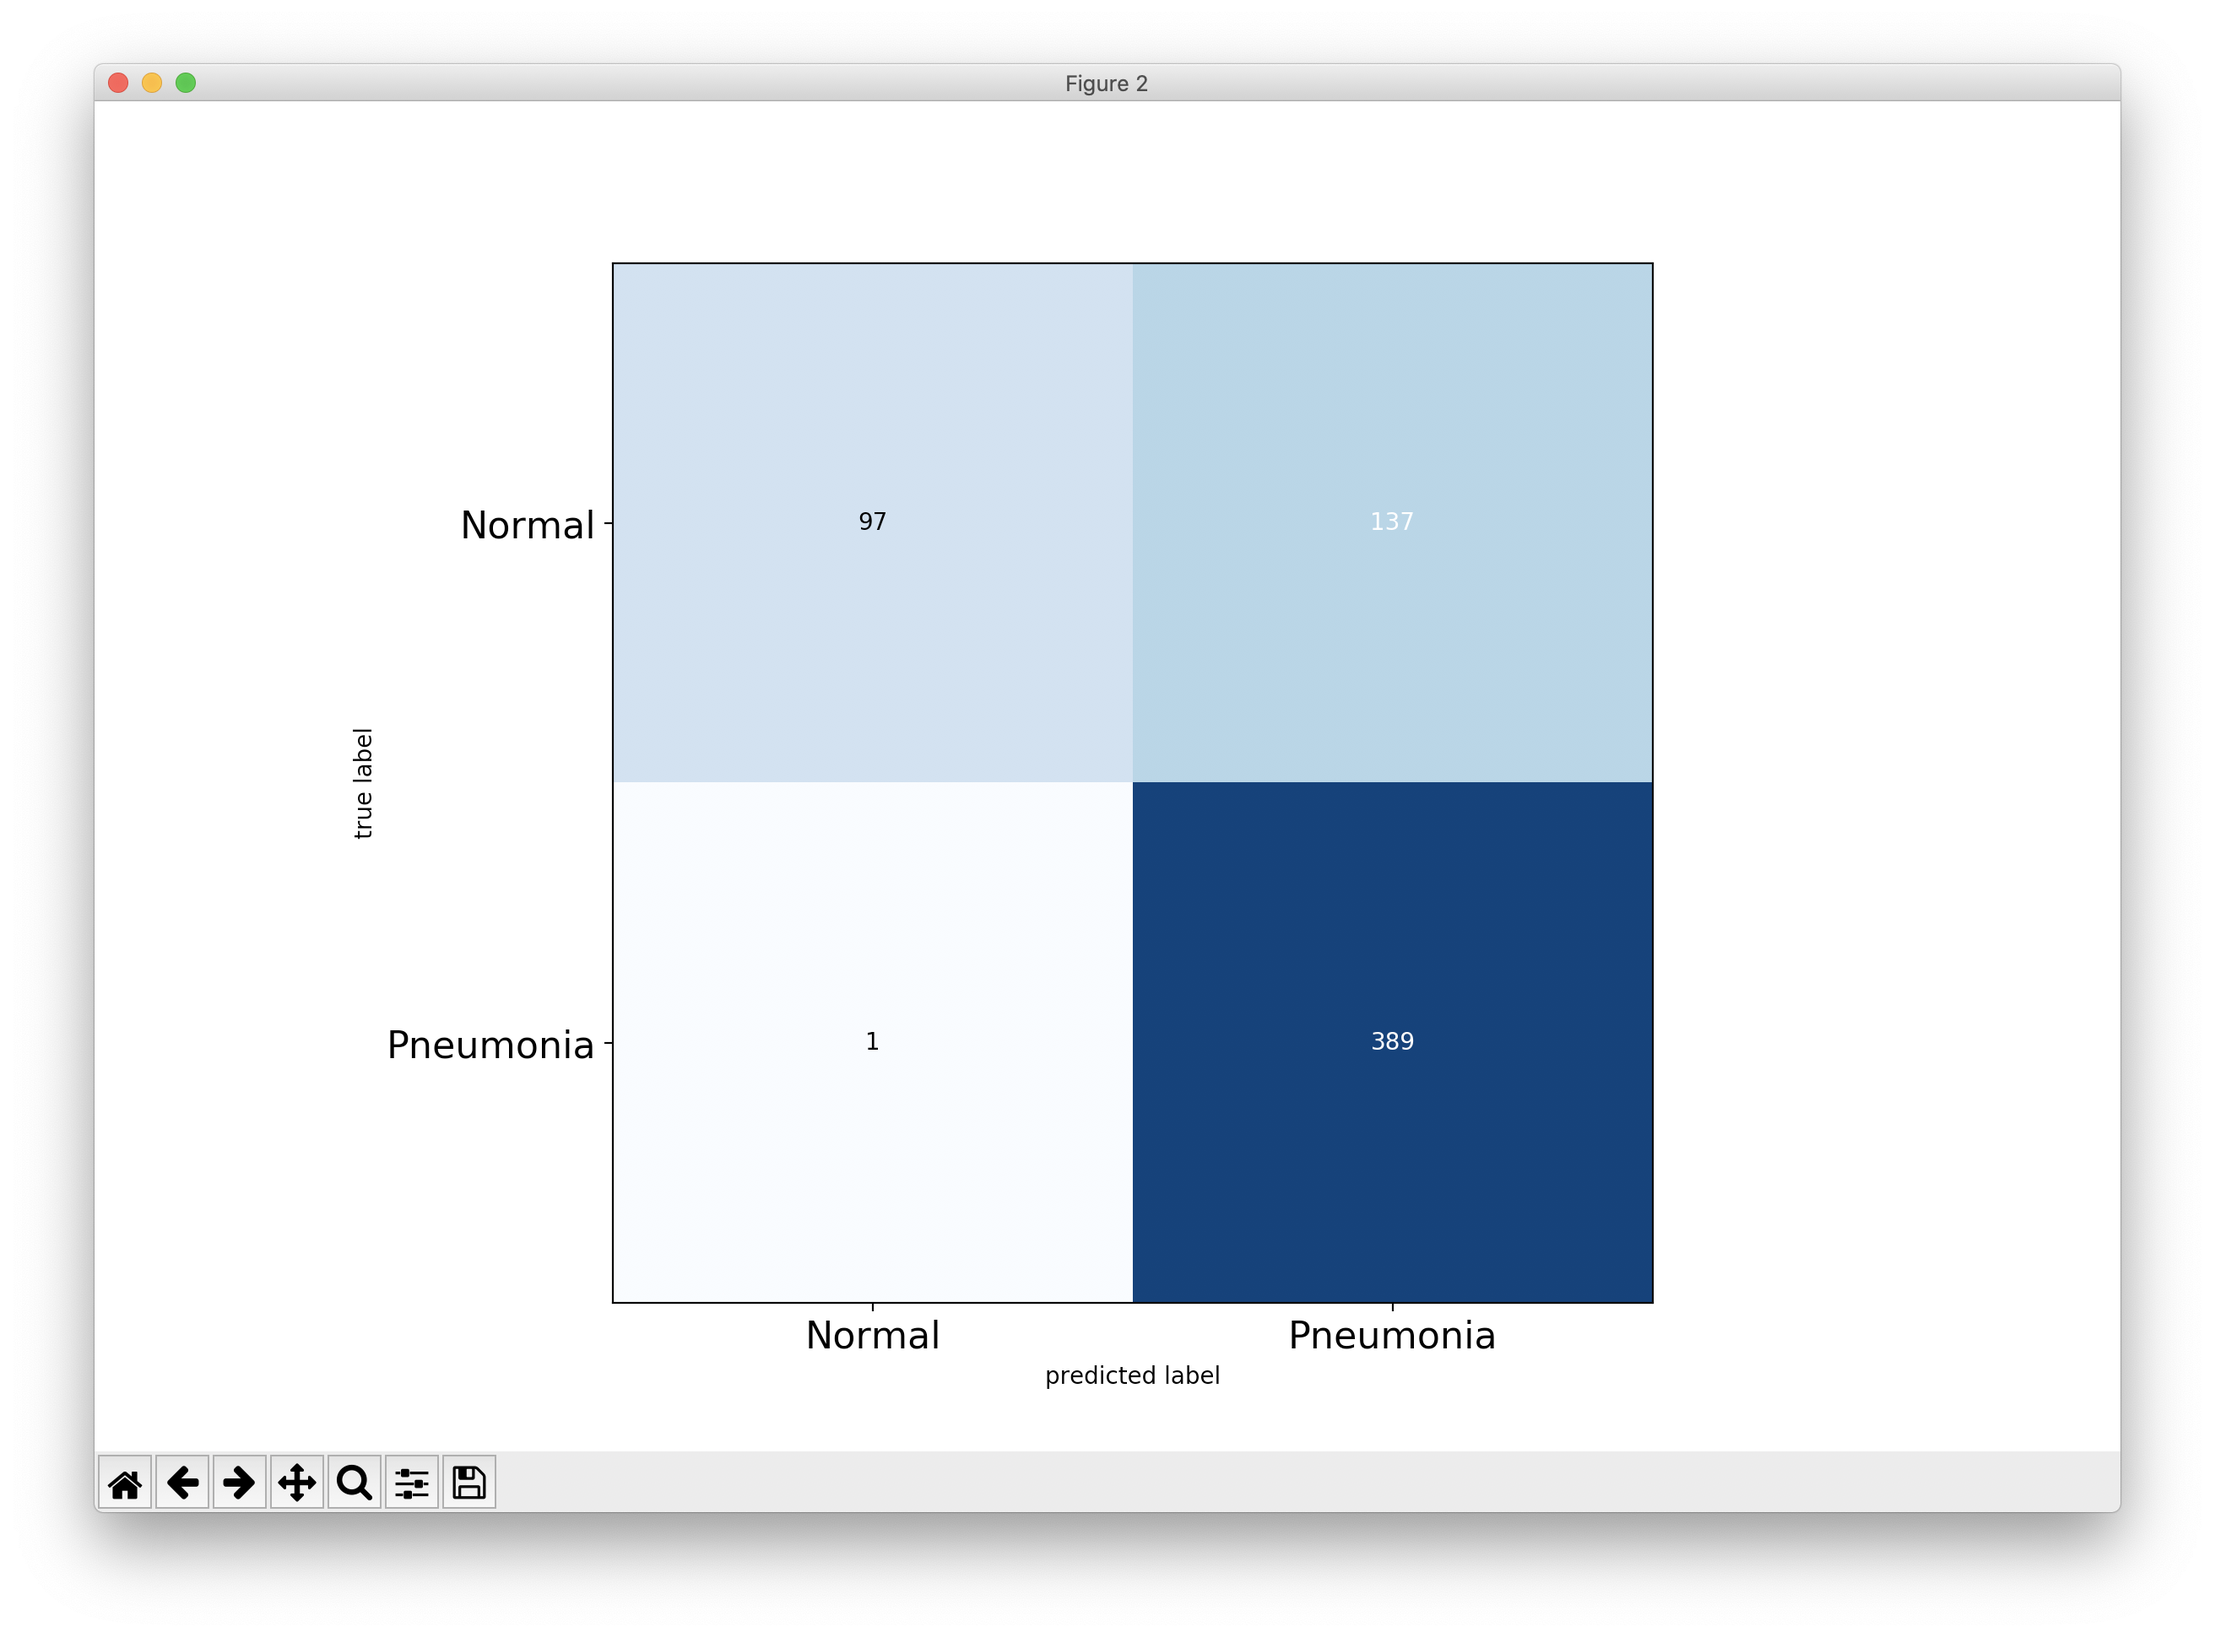
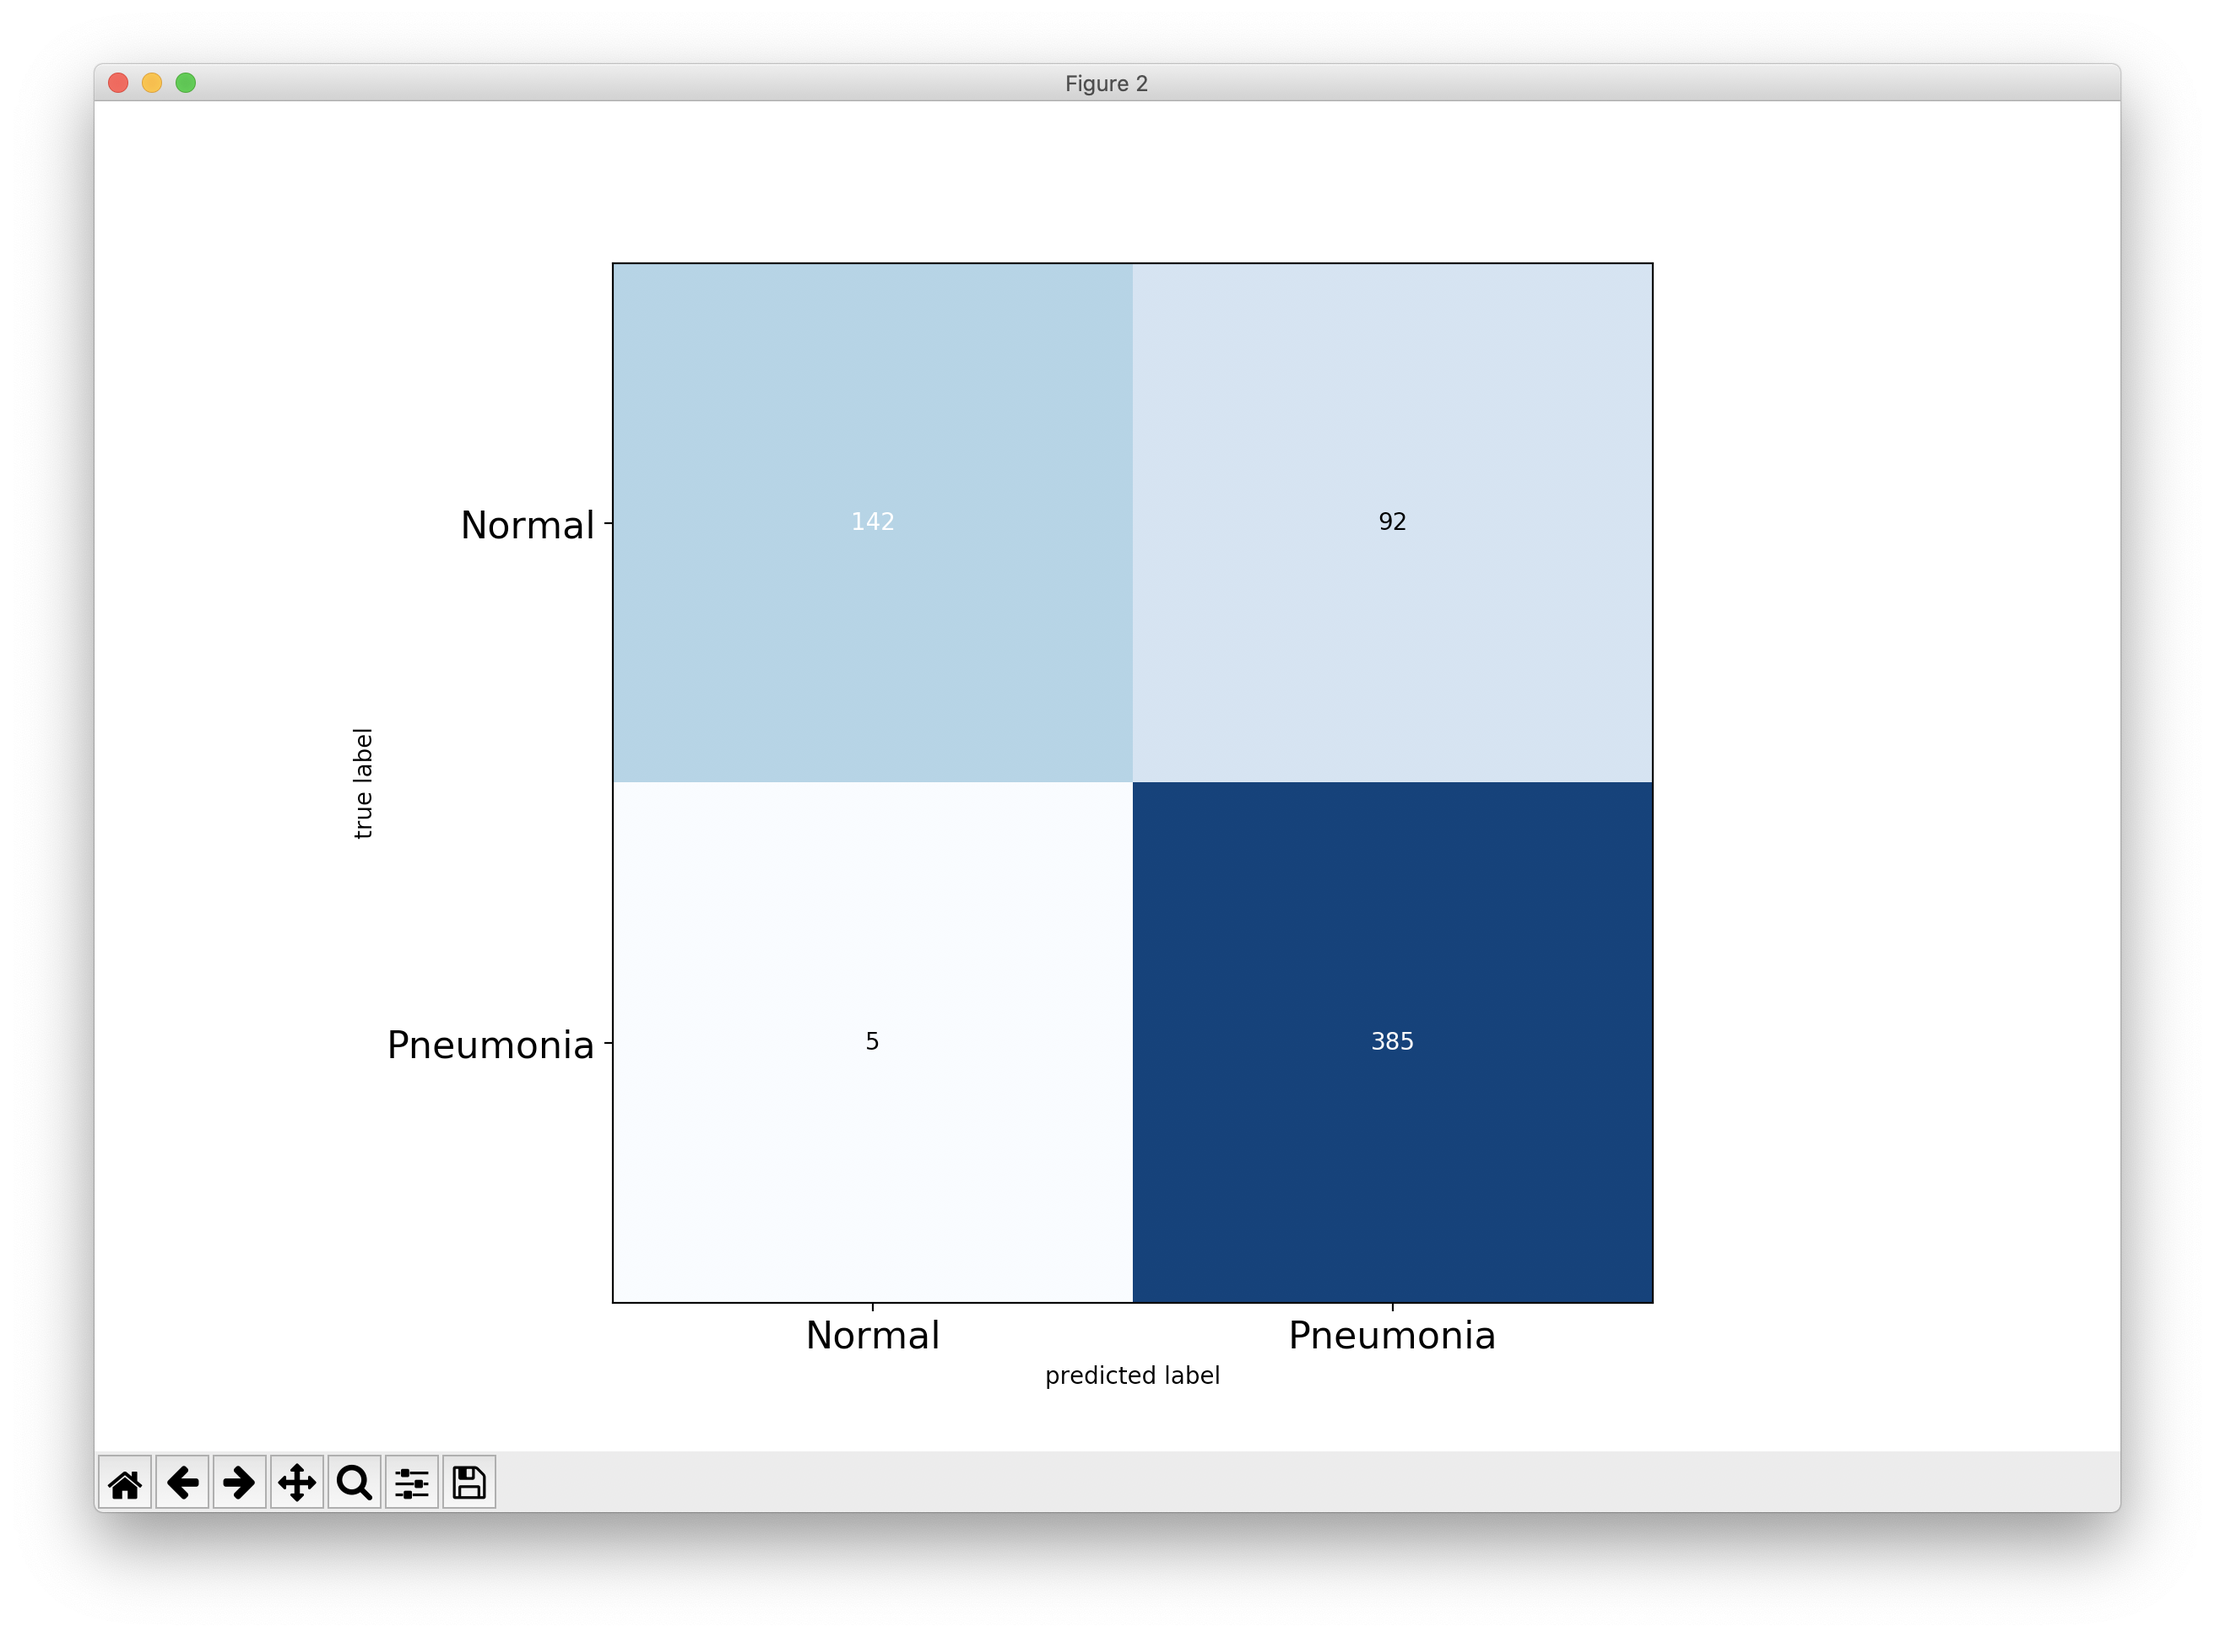
Add files via upload

Changed region(s): [[0.25, 0.1546, 0.75, 0.4948]]

diff --git a/main_cnn_vgg19.py b/main_cnn_vgg19.py
@@ -1,0 +1,160 @@
+# Find this Kaggle kernel at:
+# https://www.kaggle.com/wilsonwong961/cnn-with-vgg19?scriptVersionId=17144986
+
+import numpy as np  # linear algebra
+import pandas as pd  # data processing, CSV file I/O (e.g. pd.read_csv)\
+import os
+import tensorflow as tf
+from tensorflow.keras import layers, models
+import matplotlib.pyplot as plt
+import cv2
+from pathlib import Path
+from sklearn.metrics import confusion_matrix
+from mlxtend.plotting import plot_confusion_matrix
+print(os.listdir("../input/chest_xray/chest_xray"))
+
+# Load and augment training data
+train_datagen = tf.keras.preprocessing.image.ImageDataGenerator(
+    rescale=1/255,
+    rotation_range=20,
+    width_shift_range=0.2,
+    height_shift_range=0.2,
+    horizontal_flip=True
+)
+
+train_generator = train_datagen.flow_from_directory(
+    '../input/chest_xray/chest_xray/train',
+    batch_size=16,
+    target_size=(128, 128),
+    shuffle=True,
+    class_mode='categorical'
+)
+
+# Load validation and test data
+val_datagen = tf.keras.preprocessing.image.ImageDataGenerator(rescale=1/255)
+val_generator = val_datagen.flow_from_directory(
+    '../input/chest_xray/chest_xray/val',
+    batch_size=16,
+    target_size=(128, 128),
+    class_mode='categorical'
+)
+
+test_datagen = tf.keras.preprocessing.image.ImageDataGenerator(rescale=1/255)
+test_generator = test_datagen.flow_from_directory(
+    '../input/chest_xray/chest_xray/test',
+    batch_size=16,
+    target_size=(128, 128),
+    class_mode='categorical'
+)
+
+# Use MobileNetV2 as base model for transfer learning
+base_model = tf.keras.applications.VGG19(
+    weights='imagenet',
+    include_top=False,
+    input_shape=(128, 128, 3)
+)
+base_model.trainable = False
+
+# Define model
+def model():
+    model = base_model.output
+    model = tf.keras.layers.GlobalAveragePooling2D()(model)
+    model = tf.keras.layers.Dense(units=512, activation='relu')(model)
+    model = tf.keras.layers.Dropout(0.7)(model)
+    predictions = tf.keras.layers.Dense(units=2, activation='softmax')(model)
+    model = tf.keras.models.Model(inputs=base_model.input, outputs=predictions)
+    return model
+
+model = model()
+model.compile(optimizer='adam',
+              loss='categorical_crossentropy',
+              metrics=['accuracy'])
+
+model.fit_generator(
+    train_generator,
+    epochs=10,
+    verbose=1,
+    validation_data=val_generator,
+)
+
+loss, test_acc = model.evaluate_generator(
+    test_generator,
+    steps=None,
+    max_queue_size=10,
+    workers=1,
+    use_multiprocessing=True,
+    verbose=1
+)
+
+print(test_acc)
+
+model.save('model.h5')
+
+# Load model for testing
+model = tf.keras.models.load_model('model.h5')
+
+test_dir = Path('../input/chest_xray/chest_xray/test')
+
+normal_cases_dir = test_dir / 'NORMAL'
+pneumonia_cases_dir = test_dir / 'PNEUMONIA'
+
+normal_cases = normal_cases_dir.glob('*.jpeg')
+pneumonia_cases = pneumonia_cases_dir.glob('*.jpeg')
+
+test_data = []
+test_labels = []
+
+for img in normal_cases:
+    img = cv2.imread(str(img))
+    img = cv2.resize(img, (128, 128))
+    if img.shape[2] == 1:
+        img = np.dstack([img, img, img])
+    else:
+        img = cv2.cvtColor(img, cv2.COLOR_BGR2RGB)
+    img = img.astype(np.float32)/255.
+    label = tf.keras.utils.to_categorical(0, num_classes=2)
+    test_data.append(img)
+    test_labels.append(label)
+
+for img in pneumonia_cases:
+    img = cv2.imread(str(img))
+    img = cv2.resize(img, (128, 128))
+    if img.shape[2] == 1:
+        img = np.dstack([img, img, img])
+    else:
+        img = cv2.cvtColor(img, cv2.COLOR_BGR2RGB)
+    img = img.astype(np.float32)/255.
+    label = tf.keras.utils.to_categorical(1, num_classes=2)
+    test_data.append(img)
+    test_labels.append(label)
+
+test_data = np.array(test_data)
+test_labels = np.array(test_labels)
+
+print("Total number of test examples: ", test_data.shape)
+print("Total number of labels:", test_labels.shape)
+
+# Get predictions
+preds = model.predict(test_data, batch_size=16)
+preds = np.argmax(preds, axis=-1)
+
+# Original labels
+orig_test_labels = np.argmax(test_labels, axis=-1)
+
+cm = confusion_matrix(orig_test_labels, preds)
+plt.figure()
+plot_confusion_matrix(cm, figsize=(12, 8), hide_ticks=True,
+                      cmap=plt.cm.Blues)
+plt.xticks(range(2), ['Normal', 'Pneumonia'], fontsize=16)
+plt.yticks(range(2), ['Normal', 'Pneumonia'], fontsize=16)
+plt.show()
+
+tn, fp, fn, tp = cm.ravel()
+
+precision = tp/(tp+fp)
+recall = tp/(tp+fn)
+
+print("Recall of the model is {:.2f}".format(recall))
+print("Precision of the model is {:.2f}".format(precision))
+
+
